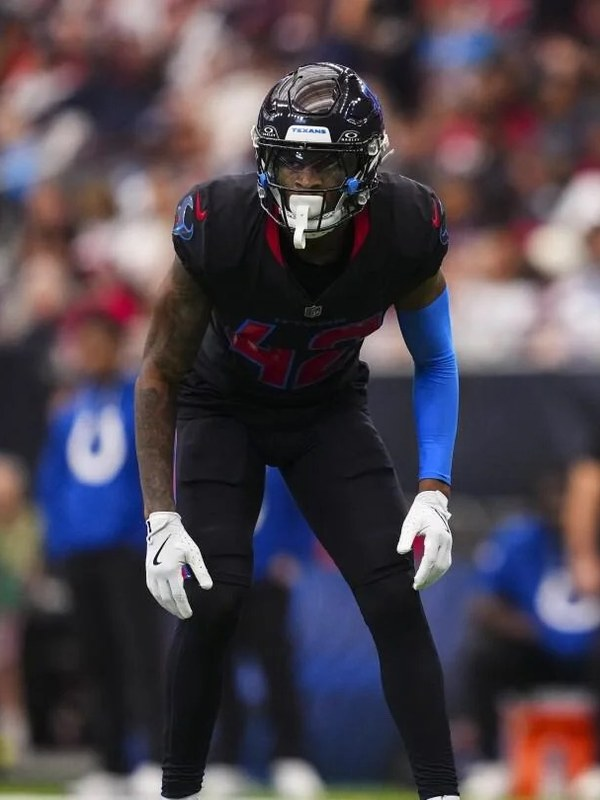
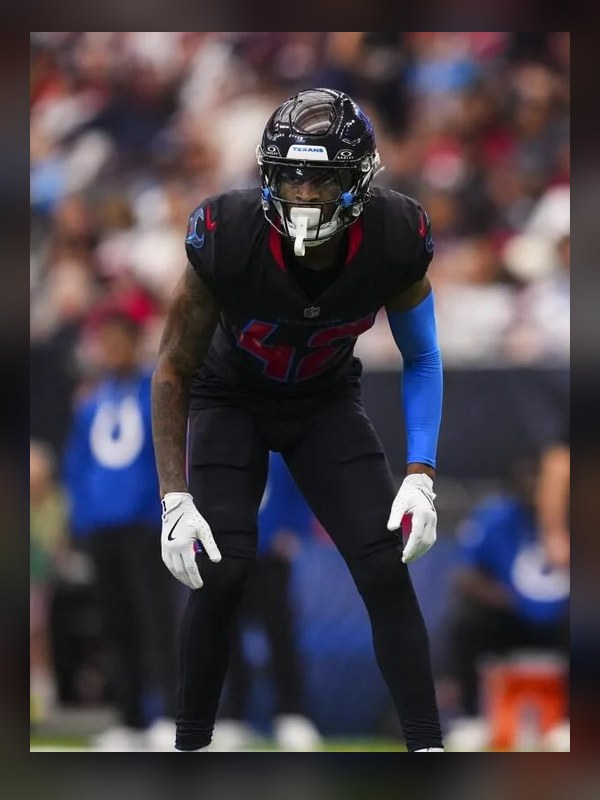
Match Ingram card frame, unify leagues type scale, add team teaser
- Ja'marcus Ingram's photo now carries the same inset frame every other
  athlete card has: a 540x720 photo at (30,32) on a blurred (r22),
  45%-brightness copy of itself. Reverse-engineered from the existing
  cards, which all share that treatment; the replacement photo did not.
- "Across the leagues": mission lead, collegiate paragraph and level
  lead now share one face and one size via a --lvl-type token, so the
  block reads symmetrically instead of three competing scales.
- New "The people behind the work" band on the home page: names, roles
  and a Meet the team button through to team.html. No bios or headshots,
  so the team page stays the single source for those.
- Partners loses pad-tight so it separates cleanly from the new band;
  footer gains an on-page #team link alongside the existing one.

diff --git a/index.html b/index.html
@@ -30,6 +30,7 @@
     --display:"Newsreader",Georgia,serif;
     --sans:"DM Sans",system-ui,-apple-system,sans-serif;
     --maxw:1200px;
+    --lvl-type:clamp(1.25rem,2.1vw,1.55rem);
     --ease:cubic-bezier(.22,.61,.36,1);
   }
   *{margin:0;padding:0;box-sizing:border-box}
@@ -143,17 +144,17 @@
 
   /* ---------- Mission block ---------- */
   .mission{margin-top:44px;display:grid;grid-template-columns:1fr 1fr;gap:clamp(28px,5vw,64px);align-items:start}
-  .mission .mlead{font-family:var(--display);font-size:clamp(1.25rem,2.2vw,1.62rem);line-height:1.38;
+  .mission .mlead{font-family:var(--display);font-size:var(--lvl-type);line-height:1.42;
                   letter-spacing:-.01em;color:var(--ink)}
   .mission-body p{font-family:var(--display);color:var(--ink);
-                  font-size:clamp(1.1rem,1.7vw,1.3rem);letter-spacing:-.01em;
-                  margin-bottom:16px;line-height:1.5}
+                  font-size:var(--lvl-type);letter-spacing:-.01em;
+                  margin-bottom:16px;line-height:1.42}
   .mission-body p:last-child{margin-bottom:0}
   .mission-body strong{color:var(--ink);font-weight:600}
 
   /* ---------- Levels ---------- */
-  .lvl-lead{font-family:var(--display);font-size:clamp(1.3rem,2.3vw,1.72rem);line-height:1.35;
-            letter-spacing:-.01em;margin-top:clamp(56px,7vw,88px);max-width:24ch}
+  .lvl-lead{font-family:var(--display);font-size:var(--lvl-type);line-height:1.42;
+            letter-spacing:-.01em;margin-top:clamp(56px,7vw,88px);max-width:30ch}
   .levels{margin-top:32px;display:grid;grid-template-columns:repeat(3,1fr);gap:1px;background:var(--line-light)}
   .lvl{background:var(--cream);padding:30px 26px;display:flex;flex-direction:column;gap:10px;
        transition:background .3s var(--ease)}
@@ -457,6 +458,27 @@
   .pleague--ncaa{color:#2F6B4F}
   .band-graphite .pcard-plate,.hero .pcard-plate{border-color:var(--line-dark);background:rgba(255,255,255,.03)}
   .hero .pcard-plate{border:0;background:none;padding:12px 0 0}
+
+  /* ---------- Meet the team teaser ---------- */
+  .team-lead{font-family:var(--display);font-size:var(--lvl-type);line-height:1.42;
+             letter-spacing:-.01em;color:var(--ink);max-width:46ch;margin-top:20px}
+  .tmini-row{list-style:none;margin:36px 0 0;padding:0;display:grid;
+             grid-template-columns:repeat(3,1fr);gap:1px;background:var(--line-light)}
+  .tmini{background:var(--cream-deep);padding:26px 24px;display:flex;flex-direction:column;gap:6px;
+         transition:background .3s var(--ease)}
+  .tmini:hover{background:var(--cream)}
+  .tmini-n{font-family:var(--display);font-size:1.22rem;letter-spacing:-.01em;line-height:1.25;color:var(--ink)}
+  .tmini-r{font-size:.92rem;color:var(--slate);line-height:1.5}
+  .team-cta{display:inline-flex;align-items:center;gap:10px;margin-top:30px;
+            font-family:var(--sans);font-size:11px;font-weight:600;letter-spacing:.14em;
+            text-transform:uppercase;text-decoration:none;color:#fff;background:var(--ink);
+            padding:14px 22px;transition:background .25s var(--ease)}
+  .team-cta svg{width:16px;height:16px}
+  .team-cta:hover,.team-cta:focus-visible{background:var(--accent)}
+  @media (max-width:820px){
+    .tmini-row{grid-template-columns:1fr}
+    .team-cta{width:100%;justify-content:center;min-height:48px}
+  }
 
   /* ---------- Football field ---------- */
   .field-wrap{margin-top:28px}
@@ -1022,7 +1044,24 @@
      values. HOW Water aqua #0B7C8A and Bear's red #B3271E are chosen for legibility on
      cream, not taken from a brand guide - confirm and replace when you have the real
      values. Change --pt-c (and --pt-c2 for a second tone) on the relevant <li>. -->
-<section id="partners" class="sec band-cream pad-tight">
+<section id="team" class="sec band-cream-deep">
+  <div class="wrap">
+    <p class="eyebrow rise">The team</p>
+    <h2 class="sec-h rise">The people behind <span class="accent">the work</span></h2>
+    <p class="team-lead rise">Athlete management, operations, and client development &mdash; the three roles that carry every relationship on the roster.</p>
+
+    <ul class="tmini-row rise">
+      <li class="tmini"><span class="tmini-n">Jamond DuBose</span><span class="tmini-r">Founder &amp; Chief Executive Officer</span></li>
+      <li class="tmini"><span class="tmini-n">Taylor Wilson</span><span class="tmini-r">President of Athlete Management &amp; Operations</span></li>
+      <li class="tmini"><span class="tmini-n">Khalil Baker</span><span class="tmini-r">Director of Athlete Relations &amp; Development</span></li>
+    </ul>
+
+    <a class="team-cta rise" href="team.html">Meet the team<svg viewBox="0 0 24 24" aria-hidden="true"><path d="M4 12h15m-6-7 7 7-7 7" stroke="currentColor" stroke-width="1.9" fill="none" stroke-linecap="round" stroke-linejoin="round"/></svg></a>
+  </div>
+</section>
+
+<!-- ============ PARTNERS / CREAM ============ -->
+<section id="partners" class="sec band-cream">
   <div class="wrap">
     <p class="eyebrow rise">Partners</p>
     <h2 class="sec-h rise">Brands our athletes have <span class="accent">partnered with</span></h2>
@@ -1139,6 +1178,7 @@
       <p class="foot-h">Quick Links</p>
       <ul class="foot-list">
         <li><a href="#home">Home</a></li>
+        <li><a href="#team">The Team</a></li>
         <li><a href="team.html">Meet the Team</a></li>
         <li><a href="#athletes">Athletes</a></li>
         <li><a href="#services">Services</a></li>
